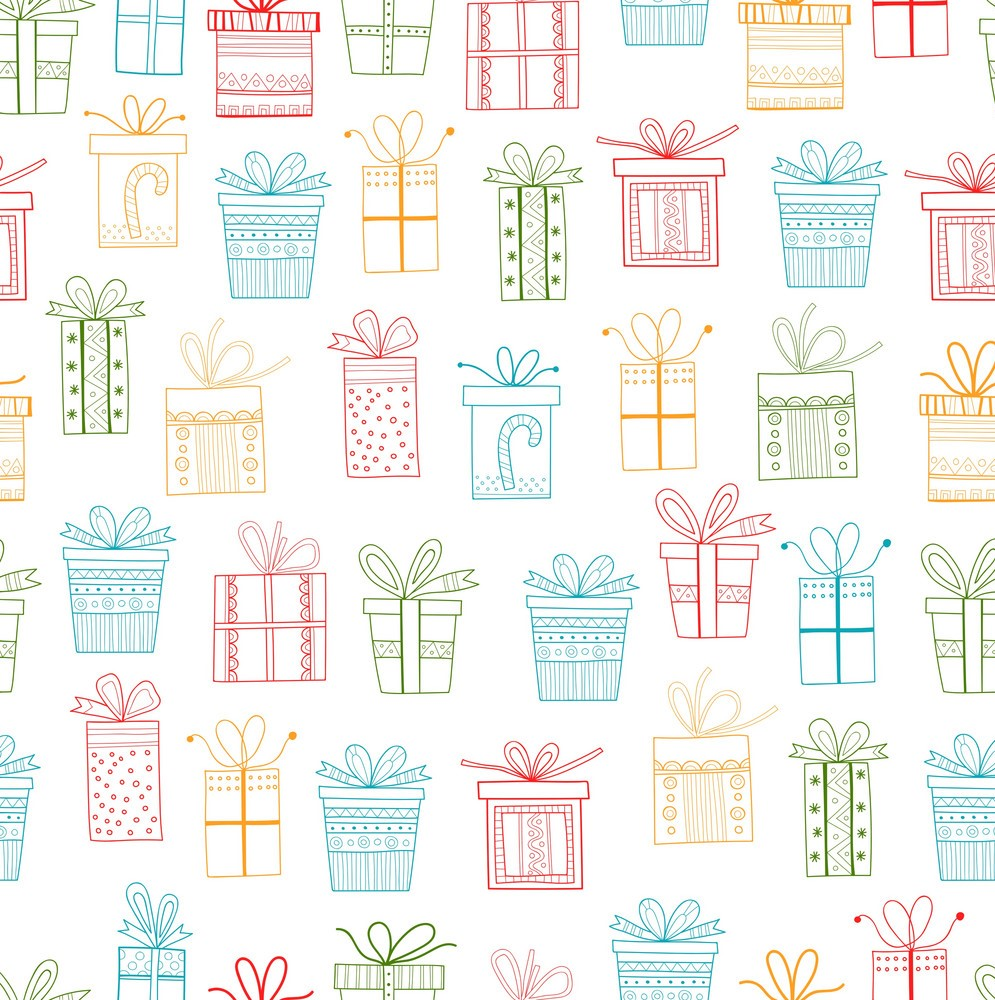
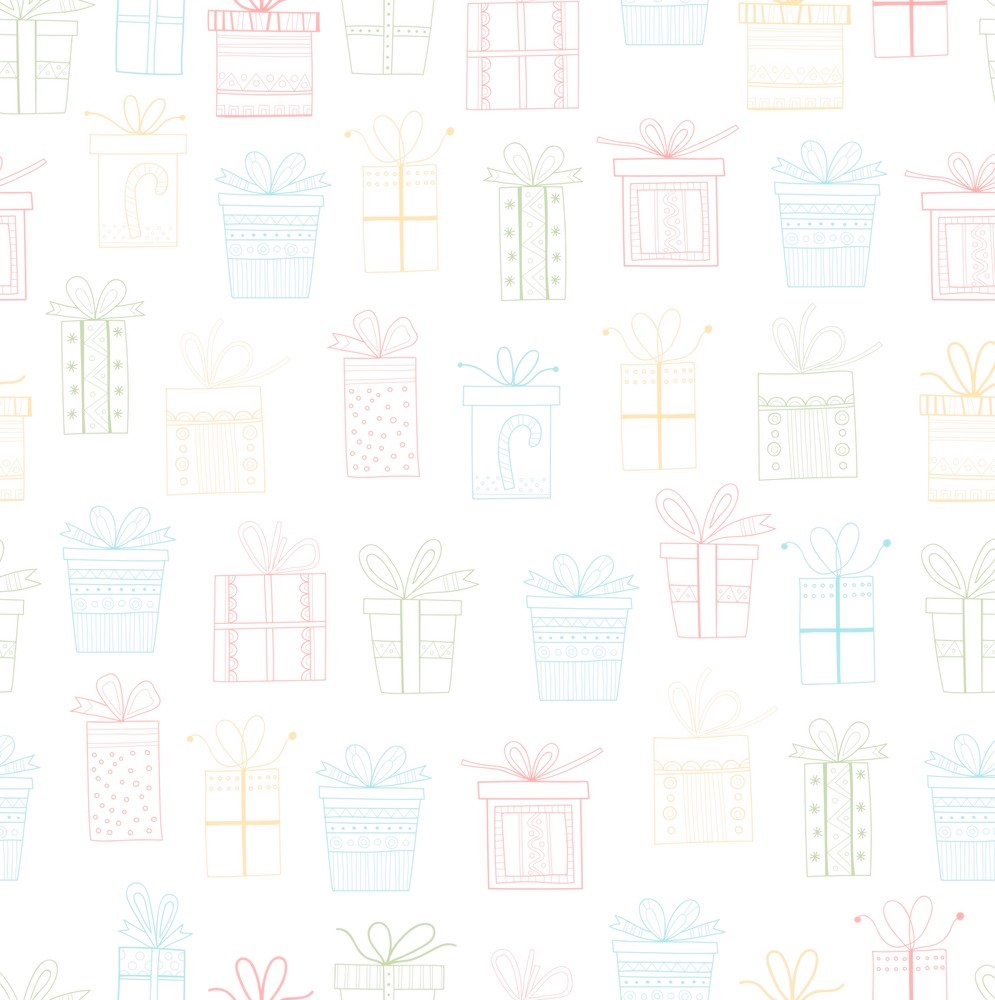
fixed background image opacity

diff --git a/public/css/style.css b/public/css/style.css
@@ -7,17 +7,13 @@ nav {
   color: white;
 }
 
-body {
-  font-family: "Lora", serif;
-}
-
 /* Adds the Background Image after the body */
-body::after {
+body {
   content: "";
+  font-family: "Lora", serif;
   background-image: url(../images/background.jpg);
   background-position: center;
   background-color: rgb(245, 243, 247);
-  opacity: 0.3; /* 0 = Full Invisible & 1 = Fully Visibile */
   top: 0;
   left: 0;
   bottom: 0;
